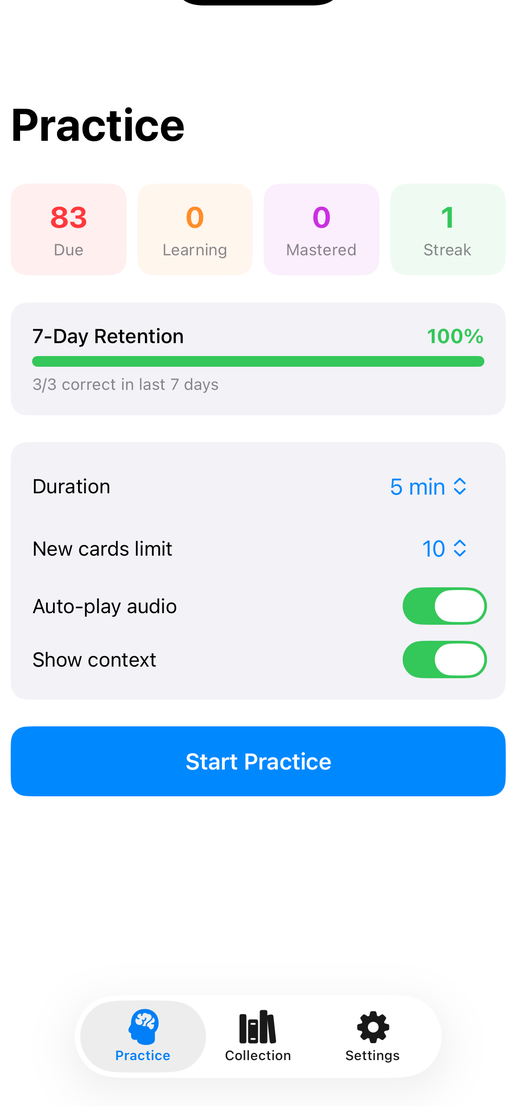
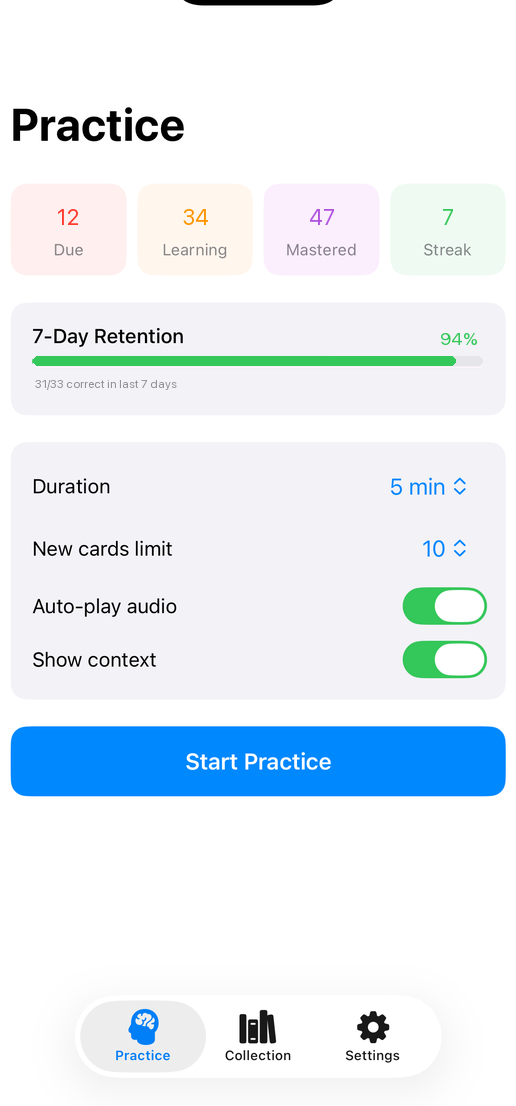
Revert iOS section to real screenshot with edited stats
Replace HTML mockup with pixel-edited real iOS screenshot.
Stats updated: 12 Due, 34 Learning, 47 Mastered, 7 Streak, 94% retention.

diff --git a/index.html b/index.html
@@ -243,72 +243,6 @@
     }
     .sync-phone-screen img { width: 100%; height: 100%; object-fit: cover; object-position: top; display: block; }
 
-    /* iOS practice mockup */
-    .ios-mock {
-      width: 100%; height: 100%; background: #f2f2f7;
-      font-family: -apple-system, 'SF Pro', 'Helvetica Neue', sans-serif;
-      padding: 58px 18px 0; overflow: hidden;
-    }
-    .ios-title { font-size: 28px; font-weight: 700; margin-bottom: 14px; color: #000; }
-    .ios-stats {
-      display: flex; gap: 8px; margin-bottom: 14px;
-    }
-    .ios-stat {
-      flex: 1; text-align: center; padding: 10px 4px; border-radius: 12px;
-    }
-    .ios-stat-num { font-size: 22px; font-weight: 700; }
-    .ios-stat-label { font-size: 11px; color: #8e8e93; margin-top: 2px; }
-    .ios-stat.due { background: #fff2f2; }
-    .ios-stat.due .ios-stat-num { color: #ff3b30; }
-    .ios-stat.learning { background: #fff8f0; }
-    .ios-stat.learning .ios-stat-num { color: #ff9500; }
-    .ios-stat.mastered { background: #f0faf0; }
-    .ios-stat.mastered .ios-stat-num { color: #34c759; }
-    .ios-stat.streak { background: #f0f5f0; }
-    .ios-stat.streak .ios-stat-num { color: #666; }
-    .ios-card {
-      background: white; border-radius: 14px; padding: 16px; margin-bottom: 12px;
-    }
-    .ios-retention-row {
-      display: flex; justify-content: space-between; align-items: center;
-      font-size: 15px; font-weight: 600; margin-bottom: 6px;
-    }
-    .ios-retention-pct { color: #34c759; }
-    .ios-retention-bar {
-      height: 6px; background: #e5e5ea; border-radius: 3px; overflow: hidden;
-    }
-    .ios-retention-fill { height: 100%; background: #34c759; border-radius: 3px; }
-    .ios-retention-sub { font-size: 12px; color: #8e8e93; margin-top: 4px; }
-    .ios-setting-row {
-      display: flex; justify-content: space-between; align-items: center;
-      padding: 12px 0; font-size: 15px;
-    }
-    .ios-setting-row + .ios-setting-row { border-top: 0.5px solid #e5e5ea; }
-    .ios-setting-val { color: #007aff; font-size: 15px; }
-    .ios-toggle {
-      width: 42px; height: 26px; background: #34c759; border-radius: 13px;
-      position: relative;
-    }
-    .ios-toggle::after {
-      content: ''; position: absolute; right: 2px; top: 2px;
-      width: 22px; height: 22px; background: white; border-radius: 50%;
-      box-shadow: 0 1px 3px rgba(0,0,0,0.2);
-    }
-    .ios-practice-btn {
-      width: 100%; padding: 16px; background: #007aff; color: white;
-      font-size: 17px; font-weight: 600; border: none; border-radius: 14px;
-      text-align: center; margin-bottom: 16px;
-    }
-    .ios-tab-bar {
-      position: absolute; bottom: 0; left: 0; right: 0;
-      display: flex; justify-content: center; gap: 48px;
-      padding: 10px 0 28px; background: #f2f2f7;
-      border-top: 0.5px solid #d1d1d6;
-    }
-    .ios-tab { text-align: center; font-size: 10px; color: #8e8e93; }
-    .ios-tab.active { color: #007aff; }
-    .ios-tab-icon { font-size: 20px; margin-bottom: 2px; }
-
     /* CTA */
     .cta {
       padding: 100px 24px; text-align: center;
@@ -476,32 +410,7 @@
       <div class="sync-phone">
         <div class="sync-phone-screen">
           <div class="sync-phone-island"></div>
-          <div class="ios-mock">
-            <div class="ios-title">Practice</div>
-            <div class="ios-stats">
-              <div class="ios-stat due"><div class="ios-stat-num">12</div><div class="ios-stat-label">Due</div></div>
-              <div class="ios-stat learning"><div class="ios-stat-num">34</div><div class="ios-stat-label">Learning</div></div>
-              <div class="ios-stat mastered"><div class="ios-stat-num">47</div><div class="ios-stat-label">Mastered</div></div>
-              <div class="ios-stat streak"><div class="ios-stat-num">7</div><div class="ios-stat-label">Streak</div></div>
-            </div>
-            <div class="ios-card">
-              <div class="ios-retention-row"><span>7-Day Retention</span><span class="ios-retention-pct">94%</span></div>
-              <div class="ios-retention-bar"><div class="ios-retention-fill" style="width:94%"></div></div>
-              <div class="ios-retention-sub">31/33 correct in last 7 days</div>
-            </div>
-            <div class="ios-card">
-              <div class="ios-setting-row"><span>Duration</span><span class="ios-setting-val">5 min</span></div>
-              <div class="ios-setting-row"><span>New cards limit</span><span class="ios-setting-val">10</span></div>
-              <div class="ios-setting-row"><span>Auto-play audio</span><div class="ios-toggle"></div></div>
-              <div class="ios-setting-row"><span>Show context</span><div class="ios-toggle"></div></div>
-            </div>
-            <div class="ios-practice-btn">Start Practice</div>
-            <div class="ios-tab-bar">
-              <div class="ios-tab active"><div class="ios-tab-icon">&#x1F9E0;</div>Practice</div>
-              <div class="ios-tab"><div class="ios-tab-icon">&#x1F4CA;</div>Collection</div>
-              <div class="ios-tab"><div class="ios-tab-icon">&#x2699;&#xFE0F;</div>Settings</div>
-            </div>
-          </div>
+          <img src="assets/ios-app-screenshot.png" alt="Voca-Voca iOS app practice screen">
         </div>
       </div>
     </div>